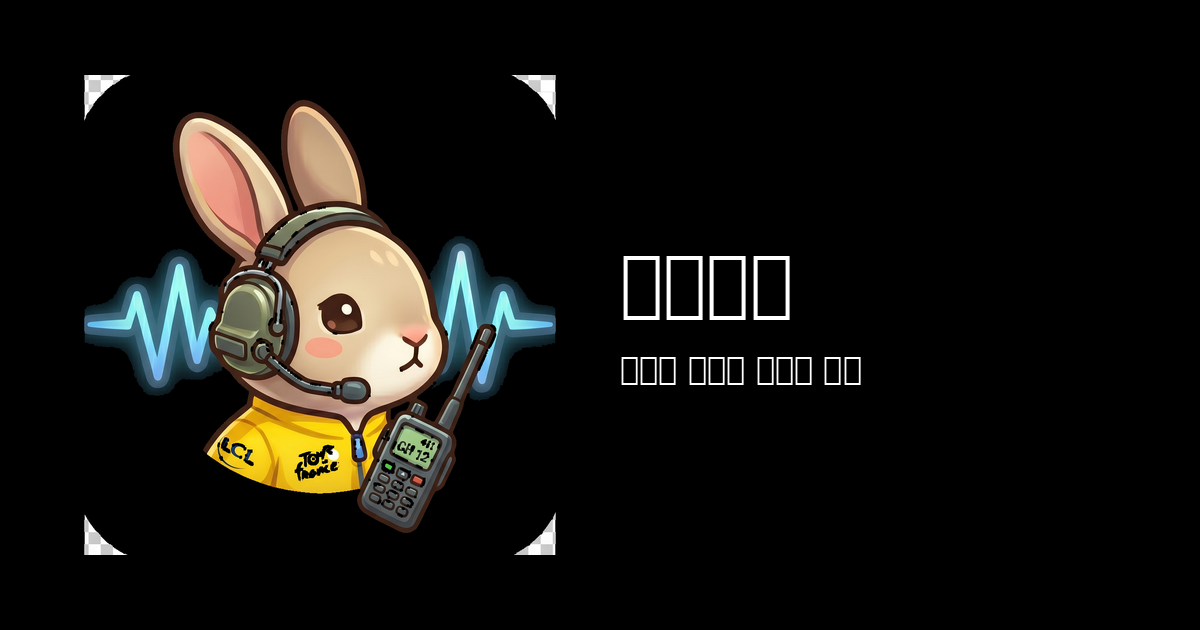
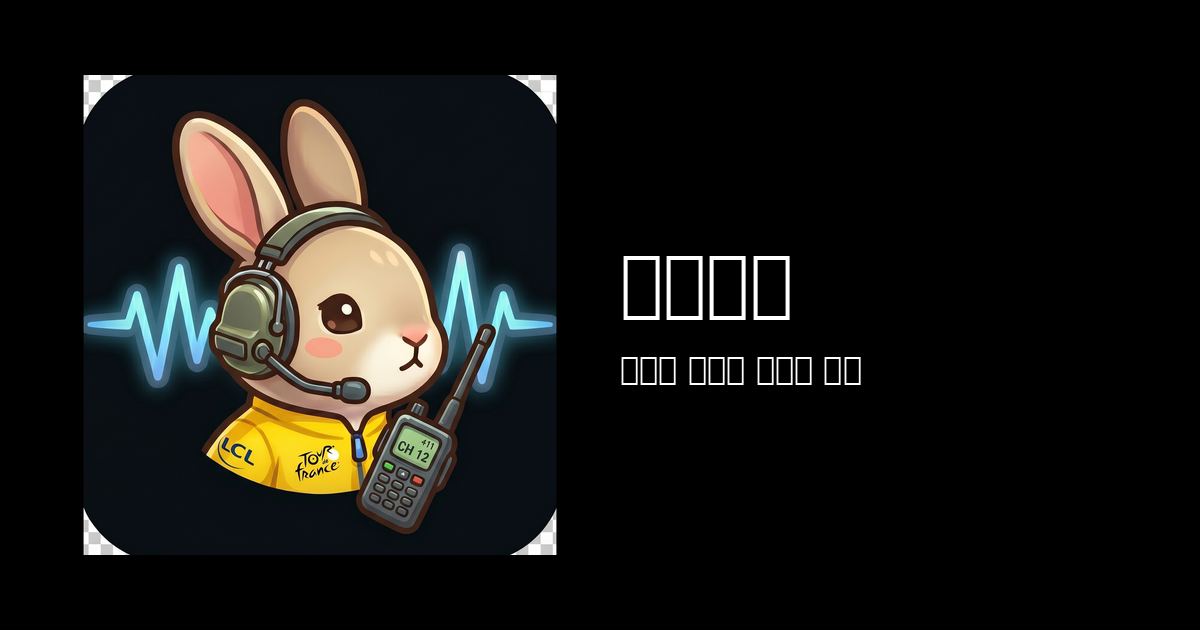
feat: v1.2 — HelpView 4 mirror, hero solid bg, Galaxy quality modes
Hero asset:
- Replace walkietokki-hero.png with .backup-2026-05-28 (0% transparent, solid black bg)
  → fixes the visible checkered transparent corners on dark site bg
- Hero now renders with rounded corners via CSS (rounded-[28px])
- Regenerate og-image.png with new hero

Core features (4 cards) — mirror HelpView KO/EN copy verbatim:
- 1: Bluetooth headset (rabbit-headphones) + note: iOS single tap / Galaxy single→double
- 2: Earbuds (rabbit-airpods, NEW asset) + note: iOS double tap / Galaxy not supported
- 3: Same code to meet (rabbit-qr)
- 4: Wind noise reduction (rabbit-bicycle)
- Drop the standalone 'Platform diff' section — info now embedded in card notes

Drop 'How it works' section — duplicates Core features

More features (이런 기능도):
- Ride history: 'last 30 days shown on phone' (NO auto-delete language)
- Drop 'nickname identifies who's transmitting' card (not actually broadcast yet)
- Add 'Galaxy transmit quality modes' card

FAQ updates:
- Headset Q: generalize, no specific models (await beta verification)
- New Q: Galaxy transmit button behavior (single tap start / double tap stop)
- New Q: Galaxy quality modes (High = 5s cooldown + 3-step chime / Standard = no cooldown, lower quality, no call channel)
- Voice storage: drop the 30-day auto-delete language
- Lock screen: unified iOS/Android (just works)
- Remove Watch question

KO + EN i18n parity maintained.
Footer address unchanged from v1.1.

diff --git a/src/i18n/strings.ts b/src/i18n/strings.ts
@@ -7,7 +7,6 @@ export const strings = {
   ko: {
     nav: {
       features: '기능',
-      howItWorks: '사용법',
       faq: '자주 묻는 질문',
       reviews: '후기',
       beta: '베타 신청',
@@ -26,50 +25,44 @@ export const strings = {
     },
     coreFeatures: {
       heading: '핵심 기능',
+      sub: '워키토끼는 자전거 라이딩에 최적화된 PTT 무전 앱이에요. 사용법은 헤드셋 종류에 따라 다릅니다.',
       items: [
         {
           icon: 'rabbit-headphones.png',
-          title: '샥즈 같은 마이크 헤드셋',
-          body: '샥즈 OpenRun Pro 같은 마이크 달린 블루투스 헤드셋이면 가운데 버튼 한 번 톡 누르면 송신, 다시 한 번 누르면 끝. 길게 누를 필요 없어요.',
+          title: '마이크가 있는 블루투스 헤드셋으로 사용',
+          body: '가운데 버튼 한 번 톡 누르면 말하기, 다시 누르면 끝. 길게 누를 필요 없어요.',
+          note: 'iOS: 한 번 톡 누르면 송신 / 종료. 갤럭시: 송신 시작 1번, 종료 2번.',
         },
         {
-          icon: 'rabbit-headphones.png',
-          title: 'AirPods Pro도 OK',
-          body: 'AirPods Pro는 스템(스틱)을 두 번 빠르게 누르면 송신, 다시 두 번 누르면 끝. 자전거 라이딩 중에도 손가락 두 번이면 충분해요.',
+          icon: 'rabbit-airpods.png',
+          title: '이어버즈로 사용',
+          body: '헤드셋과는 다르게, 이어버즈는 스템을 톡톡 두 번 누르면 말하기, 다시 두 번 누르면 끝. (AirPods Pro 기준)',
+          note: 'iOS: 두 번 톡 누르면 송신 / 종료. 갤럭시: 이어버즈 PTT 미지원 (Android OS 한계).',
         },
         {
           icon: 'rabbit-qr.png',
           title: '같은 코드로 만나기',
-          body: '코드 하나만 공유하면 친구와 같은 방. 카톡으로 보내거나 QR로 스캔. 한 채널 최대 16명까지 동시 무전.',
+          body: '코드 하나만 공유하면 친구와 같은 방. 카톡으로 보내거나 QR로 스캔.',
+          note: '',
         },
         {
           icon: 'rabbit-bicycle.png',
           title: '바람 소리 줄이기',
-          body: '맞바람 라이딩에서도 친구 목소리는 또렷하게. 4단계 풍절음 억제로 시속 40km 이상에서도 통신이 끊기지 않아요.',
+          body: '맞바람 라이딩에서도 친구 목소리는 또렷하게. 바람소리를 줄여줘요.',
+          note: '',
         },
       ],
-      platformDiff: {
-        heading: '플랫폼별 지원 헤드셋',
-        ios: {
-          label: 'iPhone (iOS 16+)',
-          body: '샥즈 가운데 버튼 + AirPods Pro 스템 두 번 프레스 모두 지원. Apple PushToTalk 프레임워크로 화면 잠금 상태에서도 친구 목소리는 들립니다.',
-        },
-        android: {
-          label: 'Galaxy / Android (One UI 7 이상)',
-          body: '샥즈 가운데 버튼 지원. AirPods Pro는 미지원 (Android OS 한계). 별도 Telecom 통화 채널로 자전거 라이딩 중 안정적 라우팅.',
-        },
-      },
     },
     moreFeatures: {
       heading: '이런 기능도',
       items: [
         {
-          title: '라이딩 기록 30일 자동 보관',
-          body: '최근 30일 라이딩 세션이 자동 저장됩니다. 라이딩 코스/시간/같이 탄 친구/총 송신 시간 표시. 30일이 지난 기록은 자동 삭제 (개인정보 보호).',
+          title: '라이딩 기록 30일',
+          body: '최근 30일 라이딩 세션이 폰에 표시됩니다. 라이딩 날짜, 채널 코드, 함께 탄 친구, 총 송신 시간이 카드로 정리돼요.',
         },
         {
           title: '송신 알림음',
-          body: '마이크가 켜진 시간을 1분/2분/3분 간격으로 알려드려요. "송신 중인 거 알고 있나?" 깜빡 잊고 마이크 켜두는 실수 방지.',
+          body: '마이크가 켜진 시간을 1분/2분/3분 간격으로 알려드려요. 깜빡 잊고 마이크 켜두는 실수 방지.',
         },
         {
           title: '한 채널 최대 16명',
@@ -77,24 +70,16 @@ export const strings = {
         },
         {
           title: '안전한 인증',
-          body: '소셜 로그인(Apple/Google/Kakao) 3가지 중 선택. 음성은 서버에 저장되지 않고 P2P 실시간 전송. 채널 코드도 6시간마다 자동 갱신.',
+          body: '소셜 로그인(Apple/Google/Kakao) 3가지 중 선택. 음성은 서버에 저장되지 않고 P2P 실시간 전송.',
         },
         {
           title: 'Pro 구독 — 주당 20시간',
           body: 'Pro는 ₩9,900/월. 가입일 기준 매주 20시간 사용. 무료는 주 3시간 (초과 시 ₩200/시간). 첫 주 무료 체험 포함.',
         },
         {
-          title: '닉네임으로 친구 구분',
-          body: '같은 채널 내 친구 닉네임을 한눈에 확인. 누가 송신 중인지 라이딩 화면에 실시간 표시. 무전이 누구한테서 왔는지 헷갈리지 않아요.',
+          title: '갤럭시 송신 음질 선택',
+          body: '갤럭시(Android)는 고음질 모드 / 일반 음질 두 가지 선택. 라이딩 성격에 맞춰 골라 쓰세요.',
         },
-      ],
-    },
-    howItWorks: {
-      heading: '이렇게 시작해요',
-      steps: [
-        { num: 1, title: '헤드셋 연결', body: '샥즈, AirPods Pro 등 블루투스 헤드셋' },
-        { num: 2, title: '코드로 합류', body: '카톡으로 코드 공유 또는 QR 스캔' },
-        { num: 3, title: '라이딩 시작', body: '헤드셋 버튼으로 무전 시작' },
       ],
     },
     faq: {
@@ -107,11 +92,19 @@ export const strings = {
         },
         {
           q: '어떤 헤드셋이 필요한가요?',
-          a: '마이크가 달린 블루투스 헤드셋이면 모두 가능합니다. 자전거 라이더 사이에서 가장 많이 쓰이는 모델은 샥즈 OpenRun Pro 2 (가운데 버튼 한 번 톡), AirPods Pro (스템 두 번 빠르게 프레스). 갤럭시 버즈는 현재 송신 시작 키가 제한적이라 권장하지 않아요.',
+          a: '마이크가 달린 블루투스 헤드셋이면 모두 가능합니다. 일반적인 골전도 헤드셋, 일반 이어버즈, AirPods Pro 등이 작동합니다. 구체적인 추천 모델은 베타 단계 검증 후 별도 안내드릴 예정이에요.',
         },
         {
           q: 'AirPods로도 정말 되나요?',
-          a: '네, iOS 17 이상에서 AirPods Pro 2세대 이상이면 작동합니다. 단, 단일 프레스는 Apple OS 정책상 불가하고 **두 번 프레스**로만 송신 시작이 됩니다. Android에서는 AirPods의 송신 키 자체가 운영체제에 전달되지 않아 미지원입니다.',
+          a: '네, iOS 17 이상에서 AirPods Pro 2세대 이상이면 작동합니다. 단, 단일 프레스는 Apple OS 정책상 불가하고 **두 번 프레스**로만 송신 시작/종료가 됩니다. Android에서는 이어버즈의 송신 키 자체가 운영체제에 전달되지 않아 미지원입니다.',
+        },
+        {
+          q: '갤럭시(Android)에서 송신 키는 어떻게 작동하나요?',
+          a: '갤럭시는 헤드셋의 가운데 버튼을 **송신 시작 1번, 종료 2번** 누르는 방식입니다. iOS의 한 번 톡 방식과는 다르니 처음에 살짝 익숙해지면 손가락 두 번이 자연스러워져요. 이어버즈는 Android OS 한계로 미지원입니다.',
+        },
+        {
+          q: '갤럭시 송신 음질 모드는 뭐가 다른가요?',
+          a: '갤럭시는 송신 음질을 두 가지 모드 중 선택할 수 있어요. **고음질 모드**는 통화 전용 채널을 쓰기 때문에 음질이 깨끗하지만, 송신 종료 후 5초 대기가 있고 그 시간이 지나면 3단 송신음으로 "이제 다시 송신 가능" 알려줍니다. **일반 음질 모드**는 대기 시간 없이 바로 재송신 가능하지만, 통화 전용 채널을 쓰지 않아 음질이 다소 떨어집니다. 사이클링 그룹 대화처럼 자주 송수신하는 상황은 일반 음질이, 한 명씩 길게 말하는 상황은 고음질이 어울려요.',
         },
         {
           q: '바람 소리가 정말 줄어드나요?',
@@ -119,11 +112,11 @@ export const strings = {
         },
         {
           q: '라이딩 기록은 어디서 보나요?',
-          a: '앱 하단 "기록" 탭에서 최근 30일 라이딩이 표시됩니다. 라이딩 날짜, 채널 코드, 함께 탄 친구, 송신한 총 시간이 카드로 정리돼요. 30일이 지난 기록은 개인정보 보호를 위해 자동 삭제됩니다.',
+          a: '앱 하단 "기록" 탭에서 최근 30일 라이딩이 표시됩니다. 라이딩 날짜, 채널 코드, 함께 탄 친구, 송신한 총 시간이 카드로 정리돼요.',
         },
         {
           q: '음성이 서버에 저장되나요?',
-          a: '저장되지 않습니다. 워키토끼의 음성은 P2P 실시간 전송 방식이라 채널을 닫는 순간 그 어디에도 남지 않아요. 서버에 저장되는 것은 닉네임, 채널 코드, 라이딩 시간 같은 메타데이터뿐이고 이것도 30일 후 자동 삭제됩니다.',
+          a: '저장되지 않습니다. 워키토끼의 음성은 P2P 실시간 전송 방식이라 채널을 닫는 순간 그 어디에도 남지 않아요. 서버에 저장되는 것은 닉네임, 채널 코드 같은 메타데이터뿐입니다.',
         },
         {
           q: '같은 채널에 몇 명까지 들어올 수 있나요?',
@@ -131,15 +124,11 @@ export const strings = {
         },
         {
           q: '잠금 화면 상태에서도 친구 목소리가 들리나요?',
-          a: 'iOS는 Apple PushToTalk 프레임워크 덕분에 잠금 상태에서도 친구 목소리가 자동 재생됩니다. Android는 알림 권한을 허용하시면 잠금 화면 위에 워키토끼 알림이 떠서 들립니다. 단, 잠금 상태에서 "내가 송신 시작"은 iOS 보안 정책상 헤드셋 버튼으로만 가능합니다.',
+          a: '네, 잠금 상태에서도 친구 목소리는 자동으로 들립니다. 화면을 깨우지 않아도 라이딩 중 친구의 무전을 놓치지 않아요.',
         },
         {
           q: '전화가 오면 어떻게 되나요?',
           a: '일반 전화나 카톡 보이스톡이 오면 워키토끼가 자동으로 일시정지되고, 통화가 끝나면 자동으로 복구됩니다. 별도 조작 없이 통화→무전 전환이 매끄럽게 이루어져요. 단, 통화 중에는 다른 친구의 무전이 들리지 않습니다.',
-        },
-        {
-          q: 'Apple Watch나 Galaxy Watch에서도 쓸 수 있나요?',
-          a: '현재는 iPhone과 Android 폰에서만 작동합니다. Watch 지원은 정식 출시 이후 검토 예정입니다.',
         },
       ],
     },
@@ -175,7 +164,6 @@ export const strings = {
   en: {
     nav: {
       features: 'Features',
-      howItWorks: 'How it works',
       faq: 'FAQ',
       reviews: 'Reviews',
       beta: 'Join the beta',
@@ -194,46 +182,40 @@ export const strings = {
     },
     coreFeatures: {
       heading: 'Core features',
+      sub: 'WalkieTokki is built for cycling. The way you transmit depends on the kind of headset you wear.',
       items: [
         {
           icon: 'rabbit-headphones.png',
-          title: 'Bone-conduction headsets like Shokz',
-          body: 'With Shokz OpenRun Pro (or any Bluetooth headset with a mic), tap the center button once to transmit, tap again to stop. No hold-to-talk.',
+          title: 'Bluetooth headset with a mic',
+          body: 'Tap the center button once to talk, tap again to stop. No need to hold.',
+          note: 'iOS: single tap to start / stop. Galaxy: single tap to start, double tap to stop.',
         },
         {
-          icon: 'rabbit-headphones.png',
-          title: 'AirPods Pro work too',
-          body: 'On AirPods Pro, tap the stem twice quickly to start, tap twice again to stop. Two taps is all it takes — even mid-ride.',
+          icon: 'rabbit-airpods.png',
+          title: 'Earbuds',
+          body: 'Unlike headsets, earbuds need a double tap on the stem to start, and another double tap to stop. (AirPods Pro reference)',
+          note: 'iOS: double tap to start / stop. Galaxy: earbud PTT not supported (Android OS limitation).',
         },
         {
           icon: 'rabbit-qr.png',
           title: 'Meet with one code',
-          body: 'Share a code, ride together. Send via chat or scan a QR. Up to 16 riders on the same channel.',
+          body: 'Share a code, ride together. Send it in chat or scan a QR.',
+          note: '',
         },
         {
           icon: 'rabbit-bicycle.png',
           title: 'Crystal clear voices',
-          body: '4-level wind noise reduction keeps your friend’s voice clear, even into a 40 km/h headwind.',
+          body: 'Even into a headwind, your friend’s voice stays clear. Wind noise reduction handles it.',
+          note: '',
         },
       ],
-      platformDiff: {
-        heading: 'Supported headsets per platform',
-        ios: {
-          label: 'iPhone (iOS 16+)',
-          body: 'Shokz center button + AirPods Pro double tap both supported. Apple’s PushToTalk framework lets you hear friends even with the screen locked.',
-        },
-        android: {
-          label: 'Galaxy / Android (One UI 7+)',
-          body: 'Shokz center button supported. AirPods Pro not supported (Android OS limitation). A dedicated Telecom channel keeps audio routing stable mid-ride.',
-        },
-      },
     },
     moreFeatures: {
       heading: 'Built in',
       items: [
         {
           title: 'Ride history — 30 days',
-          body: 'The last 30 days of rides are saved automatically: date, channel code, who you rode with, and total transmit time. Older than 30 days is auto-deleted for privacy.',
+          body: 'The last 30 days of rides are shown on your phone: date, channel code, who you rode with, and total transmit time.',
         },
         {
           title: 'Transmit reminder',
@@ -245,24 +227,16 @@ export const strings = {
         },
         {
           title: 'Secure by default',
-          body: 'Sign in with Apple, Google, or Kakao. Voice is sent peer-to-peer in real time and never stored on our servers. Channel codes auto-rotate every 6 hours.',
+          body: 'Sign in with Apple, Google, or Kakao. Voice is sent peer-to-peer in real time and never stored on our servers.',
         },
         {
           title: 'Pro — 20 hours per week',
           body: 'Pro is ₩9,900 / month. From your sign-up date, you get 20 hours per week. Free users get 3 hours/week (₩200/hr overage). First week of Pro is free.',
         },
         {
-          title: 'Names you actually see',
-          body: 'See everyone in the channel by nickname. The live screen shows who’s transmitting right now, so you always know whose voice is whose.',
+          title: 'Galaxy transmit quality modes',
+          body: 'On Galaxy (Android), pick between High quality and Standard transmit modes. Choose based on how you ride.',
         },
-      ],
-    },
-    howItWorks: {
-      heading: 'Get started',
-      steps: [
-        { num: 1, title: 'Connect a headset', body: 'Shokz, AirPods Pro, or any Bluetooth headset' },
-        { num: 2, title: 'Join with a code', body: 'Share via chat or scan a QR' },
-        { num: 3, title: 'Start riding', body: 'Press the headset button to talk' },
       ],
     },
     faq: {
@@ -275,11 +249,19 @@ export const strings = {
         },
         {
           q: 'What kind of headset do I need?',
-          a: 'Any Bluetooth headset with a mic. Most popular among cyclists: Shokz OpenRun Pro 2 (single center-button tap) and AirPods Pro (double stem tap). Galaxy Buds aren’t recommended yet — their button mapping is limited.',
+          a: 'Any Bluetooth headset with a mic. Bone-conduction headsets, regular earbuds, and AirPods Pro all work. We’ll publish specific recommended models after beta-stage verification.',
         },
         {
           q: 'AirPods really work for this?',
-          a: 'Yes, on iOS 17+ with AirPods Pro (2nd gen or newer). Note: single-press isn’t possible due to Apple OS policy — only the **double press** starts a transmit. On Android, AirPods’ transmit key isn’t routed to apps, so it’s not supported there.',
+          a: 'Yes, on iOS 17+ with AirPods Pro (2nd gen or newer). Note: single-press isn’t possible due to Apple OS policy — only the **double press** starts/stops a transmit. On Android, earbuds’ transmit key isn’t routed to apps, so it’s not supported there.',
+        },
+        {
+          q: 'How does the transmit button work on Galaxy (Android)?',
+          a: 'On Galaxy, the headset center button is **single tap to start, double tap to stop**. This is different from iOS’s single-tap-for-both behavior, but two taps becomes second nature after a few rides. Earbuds aren’t supported on Android due to OS limitations.',
+        },
+        {
+          q: 'What are the Galaxy transmit quality modes?',
+          a: 'On Galaxy you can pick between two transmit modes. **High Quality** uses the call-only channel — cleaner audio, but there’s a 5-second cooldown after each transmit; a 3-step chime tells you when you can transmit again. **Standard** has no cooldown so you can re-transmit immediately, but audio quality is a notch lower because it doesn’t use the call channel. Use Standard for back-and-forth chatter, High Quality for longer solo transmissions.',
         },
         {
           q: 'Does wind noise reduction actually help?',
@@ -287,11 +269,11 @@ export const strings = {
         },
         {
           q: 'Where do I see my ride history?',
-          a: 'Under the "Records" tab — the last 30 days of rides as cards (date, channel code, who you rode with, total transmit time). Older than 30 days is auto-deleted for privacy.',
+          a: 'Under the "Records" tab — the last 30 days of rides as cards (date, channel code, who you rode with, total transmit time).',
         },
         {
           q: 'Is my voice stored anywhere?',
-          a: 'No. Voice is peer-to-peer in real time and gone the moment the channel closes. Servers only hold metadata (nicknames, channel codes, ride times) and that also auto-deletes after 30 days.',
+          a: 'No. Voice is peer-to-peer in real time and gone the moment the channel closes. Servers only hold metadata like nicknames and channel codes.',
         },
         {
           q: 'How many people can be in one channel?',
@@ -299,15 +281,11 @@ export const strings = {
         },
         {
           q: 'Can I hear friends with the screen locked?',
-          a: 'On iOS, yes — Apple’s PushToTalk framework plays incoming voice through the lock screen automatically. On Android, allow notifications and an overlay shows incoming transmits. Starting transmit on a locked iPhone is only possible from the headset button (security policy).',
+          a: 'Yes, incoming voice plays automatically even on the lock screen. You don’t have to wake the phone — you won’t miss a friend’s transmit mid-ride.',
         },
         {
           q: 'What happens if a phone call comes in?',
           a: 'WalkieTokki pauses automatically and resumes when the call ends. The handover is seamless. During the call, you won’t hear other riders.',
-        },
-        {
-          q: 'Apple Watch / Galaxy Watch support?',
-          a: 'Not yet. Currently iPhone and Android phones only. Watch support is under review for after public launch.',
         },
       ],
     },
